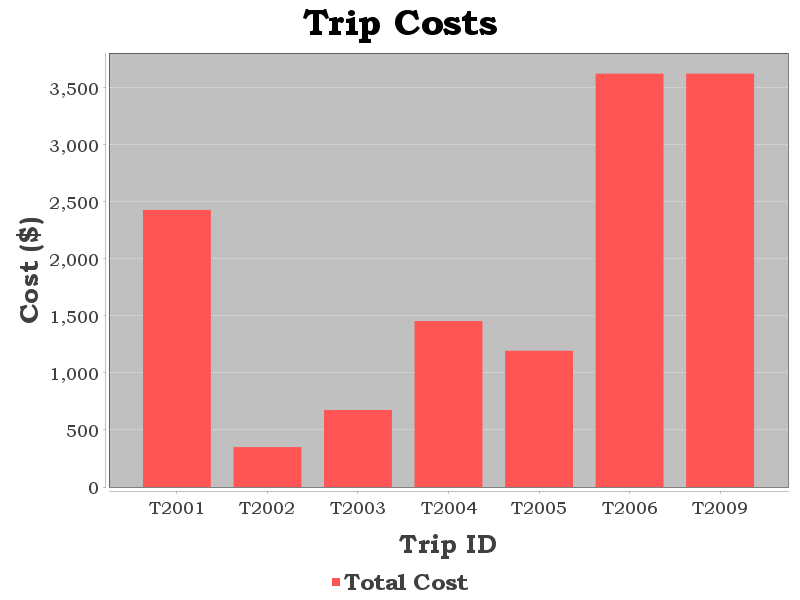
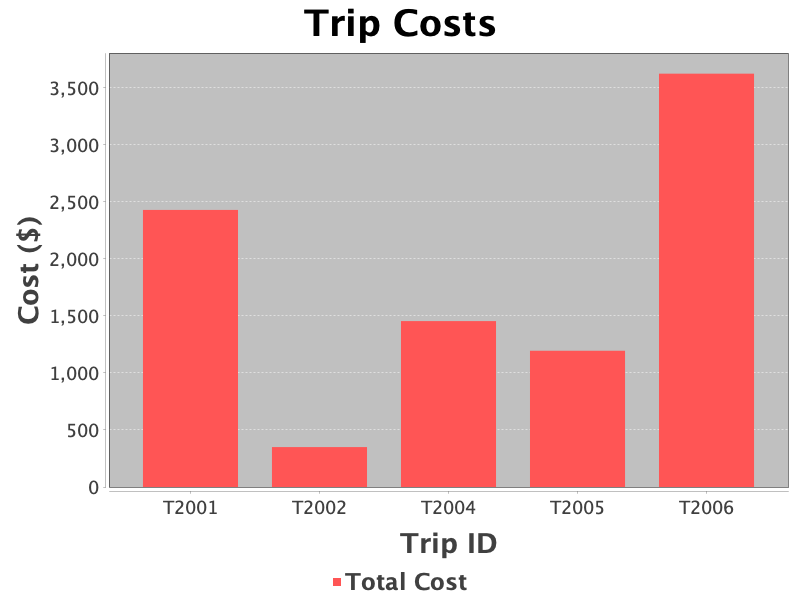
demolition expert

diff --git a/AssignmentsS2/Assignment2/output/dashboard/dashboard.html b/AssignmentsS2/Assignment2/output/dashboard/dashboard.html
@@ -10,10 +10,10 @@
     <div class='container'>
         <header>
             <h1>SmartTravel Dashboard</h1>
-            <p>A2: File I/O + Exceptions | 10 Clients | 7 Trips</p>
+            <p>A2: File I/O + Exceptions | 8 Clients | 5 Trips</p>
         </header>
         <section class='data-section'>
-            <h2> Clients (10)</h2>
+            <h2> Clients (8)</h2>
             <table>
                 <thead>
                     <tr><th>ID</th><th>Name</th><th>Email</th><th>Total Spent ($)</th></tr>
@@ -21,15 +21,9 @@
                 <tbody>
                     <tr>
                         <td><strong>C1001</strong></td>
-                        <td>Sophia Rossi</td>
-                        <td>sophia.rossi@italy.com</td>
+                        <td>0 Rossi</td>
+                        <td>sophia.rossi@gmail.com</td>
                         <td style='font-weight: bold; color: #388e3c;'>2,430.00</td>
-                    </tr>
-                    <tr>
-                        <td><strong>C1002</strong></td>
-                        <td>Carlos Silva</td>
-                        <td>carlos.silva@brazil.com</td>
-                        <td style='font-weight: bold; color: #388e3c;'>675.00</td>
                     </tr>
                     <tr>
                         <td><strong>C1003</strong></td>
@@ -59,7 +53,7 @@
                         <td><strong>C1007</strong></td>
                         <td>Alice Johnson</td>
                         <td>alice.johnson@uk.com</td>
-                        <td style='font-weight: bold; color: #d32f2f;'>3,625.00</td>
+                        <td style='font-weight: bold; color: #388e3c;'>0.00</td>
                     </tr>
                     <tr>
                         <td><strong>C1009</strong></td>
@@ -73,17 +67,11 @@
                         <td>lee.kim@korea.com</td>
                         <td style='font-weight: bold; color: #388e3c;'>0.00</td>
                     </tr>
-                    <tr>
-                        <td><strong>C1011</strong></td>
-                        <td>Mig Gomez</td>
-                        <td>miguel.gomez@spain.com</td>
-                        <td style='font-weight: bold; color: #388e3c;'>0.00</td>
-                    </tr>
                 </tbody>
             </table>
         </section>
         <section class='data-section'>
-            <h2> Trips (7)</h2>
+            <h2> Trips (5)</h2>
             <table>
                 <thead>
                     <tr><th>ID</th><th>Client</th><th>Destination</th><th>Days</th><th>Price</th></tr>
@@ -104,13 +92,6 @@
                         <td>$350.00</td>
                     </tr>
                     <tr>
-                        <td><strong>T2003</strong></td>
-                        <td>C1002</td>
-                        <td>Venice</td>
-                        <td>7</td>
-                        <td>$675.00</td>
-                    </tr>
-                    <tr>
                         <td><strong>T2004</strong></td>
                         <td>C1009</td>
                         <td>Paris</td>
@@ -129,13 +110,6 @@
                         <td>C1003</td>
                         <td>Tokyo</td>
                         <td>8</td>
-                        <td>$3625.00</td>
-                    </tr>
-                    <tr>
-                        <td><strong>T2009</strong></td>
-                        <td>C1007</td>
-                        <td>Rome</td>
-                        <td>7</td>
                         <td>$3625.00</td>
                     </tr>
                 </tbody>
@@ -159,19 +133,19 @@
             </div>
         </section>
         <section class='stats-section'>
-            <h2>Quick Stats (7 Trips)</h2>
+            <h2>Quick Stats (5 Trips)</h2>
             <div class='stat-grid'>
                 <div class='stat-item'>
                     <span class='stat-label'>Avg Trip Cost</span>
-                    <span class='stat-value'>$1,908</span>
+                    <span class='stat-value'>$1,811</span>
                 </div>
                 <div class='stat-item'>
                     <span class='stat-label'>Avg Duration</span>
-                    <span class='stat-value'>5.7 days</span>
+                    <span class='stat-value'>5.2 days</span>
                 </div>
                 <div class='stat-item'>
                     <span class='stat-label'>Total Revenue</span>
-                    <span class='stat-value'>$13,355</span>
+                    <span class='stat-value'>$9,055</span>
                 </div>
                 <div class='stat-item'>
                     <span class='stat-label'>Most Visited</span>
